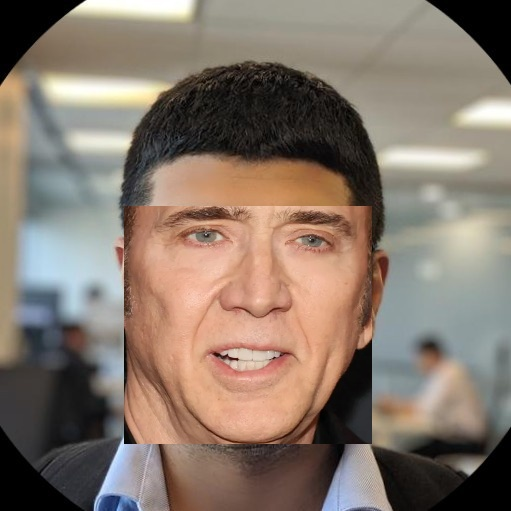
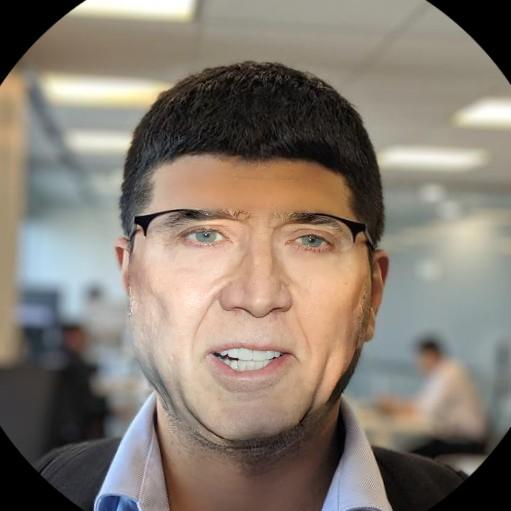
updated it with flask

Changed region(s): [[0.2348, 0.3816, 0.7339, 0.8806]]

diff --git a/main.py b/main.py
@@ -4,104 +4,184 @@ import dlib
 import numpy as np
 from PIL import Image
 import io
+import os
+import logging
 
-# Initialize Flask app and the dlib face detector and shape predictor
+# Configure logging
+logging.basicConfig(
+    level=logging.DEBUG,
+    format='%(asctime)s - %(name)s - %(levelname)s - %(message)s'
+)
+
+# Initialize Flask app
 app = Flask(__name__)
+
+# Configuration
+SHAPE_PREDICTOR_PATH = 'shape_predictor_68_face_landmarks.dat'
+DEBUG_OUTPUT = False  # Set to True to save debug images
+
+# Check if shape predictor file exists
+if not os.path.exists(SHAPE_PREDICTOR_PATH):
+    print(f"Warning: {SHAPE_PREDICTOR_PATH} not found. Face detection will fail.")
 
 # Load the pre-trained face detector and facial landmark predictor
 detector = dlib.get_frontal_face_detector()
-predictor = dlib.shape_predictor('shape_predictor_68_face_landmarks.dat')
+try:
+    predictor = dlib.shape_predictor(SHAPE_PREDICTOR_PATH)
+except RuntimeError as e:
+    print(f"Error loading shape predictor: {e}")
+    predictor = None
 
-# Function to get landmarks for a face
 def get_landmarks(image):
+    """Extract facial landmarks from an image."""
     gray = cv2.cvtColor(image, cv2.COLOR_BGR2GRAY)
     faces = detector(gray)
+    
+    if DEBUG_OUTPUT:
+        print(f"Detected {len(faces)} faces in the image.")
+    
     landmarks = []
     for face in faces:
         shape = predictor(gray, face)
         landmarks.append(shape)
     return landmarks
 
-# Function to blend faces for smoother transitions
-def blend_faces(image1, image2, mask):
-    return cv2.addWeighted(image1, 0.7, image2, 0.3, 0)
+def create_face_mask(image, landmarks):
+    """Create a mask for the face region based on landmarks."""
+    points = np.array([(p.x, p.y) for p in landmarks.parts()])
+    hull = cv2.convexHull(points)
+    
+    mask = np.zeros_like(image, dtype=np.uint8)
+    cv2.fillConvexPoly(mask, hull, (255, 255, 255))
+    
+    return mask, hull
 
-# Function to apply the face swap
-def apply_face_swap(image1, image2):
-    landmarks1 = get_landmarks(image1)
-    landmarks2 = get_landmarks(image2)
-
-    if len(landmarks1) == 0 or len(landmarks2) == 0:
-        return None
-
-    # Assume single face for simplicity
-    landmarks1 = landmarks1[0]
-    landmarks2 = landmarks2[0]
-
-    # Create a mask from the landmarks and extract face region
-    points1 = np.array([(p.x, p.y) for p in landmarks1.parts()])
-    points2 = np.array([(p.x, p.y) for p in landmarks2.parts()])
-
-    hull1 = cv2.convexHull(points1)
-    hull2 = cv2.convexHull(points2)
-
-    rect1 = cv2.boundingRect(hull1)
-    rect2 = cv2.boundingRect(hull2)
-
-    mask1 = np.zeros_like(image1, dtype=np.uint8)
-    mask2 = np.zeros_like(image2, dtype=np.uint8)
-
-    cv2.fillConvexPoly(mask1, hull1, (255, 255, 255))
-    cv2.fillConvexPoly(mask2, hull2, (255, 255, 255))
-
-    face1 = image1[rect1[1]:rect1[1]+rect1[3], rect1[0]:rect1[0]+rect1[2]]
-    face2 = image2[rect2[1]:rect2[1]+rect2[3], rect2[0]:rect2[0]+rect2[2]]
-
-    face2_resized = cv2.resize(face2, (face1.shape[1], face1.shape[0]))
-
-    image1[rect1[1]:rect1[1]+rect1[3], rect1[0]:rect1[0]+rect1[2]] = face2_resized
-
-    # Blending faces to make it smoother
-    blended_image = blend_faces(image1, face2_resized, mask2)
-    return blended_image
+def swap_faces(target_image, source_image):
+    """Swap faces between two images."""
+    if predictor is None:
+        return None, "Shape predictor not loaded"
+    
+    # Convert images to BGR if they're in RGB format
+    if len(target_image.shape) == 3 and target_image.shape[2] == 3:
+        target_bgr = cv2.cvtColor(target_image, cv2.COLOR_RGB2BGR)
+    else:
+        target_bgr = target_image
+        
+    if len(source_image.shape) == 3 and source_image.shape[2] == 3:
+        source_bgr = cv2.cvtColor(source_image, cv2.COLOR_RGB2BGR)
+    else:
+        source_bgr = source_image
+    
+    # Get facial landmarks
+    target_landmarks = get_landmarks(target_bgr)
+    source_landmarks = get_landmarks(source_bgr)
+    
+    # Check if faces were detected
+    if not target_landmarks:
+        return None, "No face detected in target image"
+    if not source_landmarks:
+        return None, "No face detected in source image"
+    
+    # Use the first face from each image
+    target_face_landmarks = target_landmarks[0]
+    source_face_landmarks = source_landmarks[0]
+    
+    # Create masks for both faces
+    target_mask, target_hull = create_face_mask(target_bgr, target_face_landmarks)
+    source_mask, source_hull = create_face_mask(source_bgr, source_face_landmarks)
+    
+    # Get bounding rectangles
+    target_rect = cv2.boundingRect(target_hull)
+    source_rect = cv2.boundingRect(source_hull)
+    
+    # Extract face regions
+    target_face = target_bgr[target_rect[1]:target_rect[1]+target_rect[3], 
+                         target_rect[0]:target_rect[0]+target_rect[2]]
+    source_face = source_bgr[source_rect[1]:source_rect[1]+source_rect[3], 
+                         source_rect[0]:source_rect[0]+source_rect[2]]
+    
+    # Resize source face to match target face dimensions
+    source_face_resized = cv2.resize(source_face, (target_rect[2], target_rect[3]))
+    
+    # Create a copy of the target image
+    result_image = target_bgr.copy()
+    
+    # Replace the face region in the target image with the resized source face
+    result_image[target_rect[1]:target_rect[1]+target_rect[3], 
+                target_rect[0]:target_rect[0]+target_rect[2]] = source_face_resized
+    
+    # Apply seamless cloning for better blending
+    center = (target_rect[0] + target_rect[2] // 2, 
+              target_rect[1] + target_rect[3] // 2)
+    
+    try:
+        # Use seamless cloning for better blending
+        result_image = cv2.seamlessClone(
+            source_face_resized, 
+            target_bgr, 
+            target_mask[target_rect[1]:target_rect[1]+target_rect[3], 
+                        target_rect[0]:target_rect[0]+target_rect[2]], 
+            center, 
+            cv2.NORMAL_CLONE
+        )
+    except cv2.error as e:
+        # If seamless cloning fails, continue with the basic swap
+        print(f"Seamless cloning failed: {e}")
+    
+    # Convert back to RGB for return
+    result_rgb = cv2.cvtColor(result_image, cv2.COLOR_BGR2RGB)
+    
+    # Save debug images if enabled
+    if DEBUG_OUTPUT:
+        cv2.imwrite('debug_target_face.jpg', target_face)
+        cv2.imwrite('debug_source_face.jpg', source_face)
+        cv2.imwrite('debug_source_resized.jpg', source_face_resized)
+        cv2.imwrite('debug_result.jpg', result_image)
+    
+    return result_rgb, "Face swap successful"
 
 @app.route('/hello', methods=['GET'])
 def hello():
+    """Test endpoint to verify the server is running."""
     return 'Hello, world!'
 
-# Flask route to handle the face swap
 @app.route('/swap_faces', methods=['POST'])
-def swap_faces():
-    # Get the uploaded files (both images)
-    file1 = request.files.get('target_image')
-    file2 = request.files.get('cage_image')
+def handle_face_swap():
+    """API endpoint to swap faces between two images."""
+    # Get the uploaded files
+    target_file = request.files.get('target_image')
+    source_file = request.files.get('cage_image')  # Keeping original name for compatibility
+    
+    if not target_file or not source_file:
+        return jsonify({'error': 'Both target_image and cage_image must be uploaded'}), 400
+    
+    try:
+        # Read images
+        target_img = np.array(Image.open(target_file))
+        source_img = np.array(Image.open(source_file))
+        
+        # Perform face swap
+        result_img, message = swap_faces(target_img, source_img)
+        
+        if result_img is None:
+            return jsonify({'error': message}), 400
+        
+        # Convert to PIL Image and save to BytesIO
+        output_img = Image.fromarray(result_img)
+        img_io = io.BytesIO()
+        output_img.save(img_io, 'JPEG')
+        img_io.seek(0)
+        
+        # Return the swapped image
+        return send_file(
+            img_io, 
+            mimetype='image/jpeg',
+            as_attachment=True,
+            download_name='swapped_face.jpg'
+        )
+        
+    except Exception as e:
+        return jsonify({'error': f'An error occurred: {str(e)}'}), 500
 
-    if not file1 or not file2:
-        return jsonify({'error': 'Both images must be uploaded'}), 400
-
-    # Read the images from the uploaded files
-    img1 = Image.open(file1)
-    img2 = Image.open(file2)
-
-    img1 = np.array(img1)
-    img2 = np.array(img2)
-
-    # Perform the face swap
-    swapped_image = apply_face_swap(img1, img2)
-
-    if swapped_image is None:
-        return jsonify({'error': 'No faces detected in one or both images'}), 400
-
-    # Convert the swapped image to PIL format for easy returning
-    swapped_image_pil = Image.fromarray(cv2.cvtColor(swapped_image, cv2.COLOR_BGR2RGB))
-
-    # Save the image to a BytesIO object for sending back as a response
-    img_io = io.BytesIO()
-    swapped_image_pil.save(img_io, 'JPEG')
-    img_io.seek(0)
-
-    return send_file(img_io, mimetype='image/jpeg', as_attachment=True, download_name='swapped_face.jpg')
-
-# Run the Flask app
 if __name__ == '__main__':
     app.run(debug=True, port=5000)
